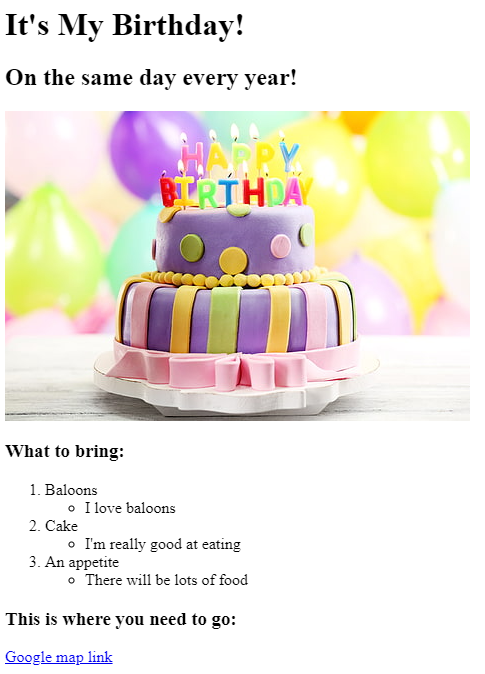
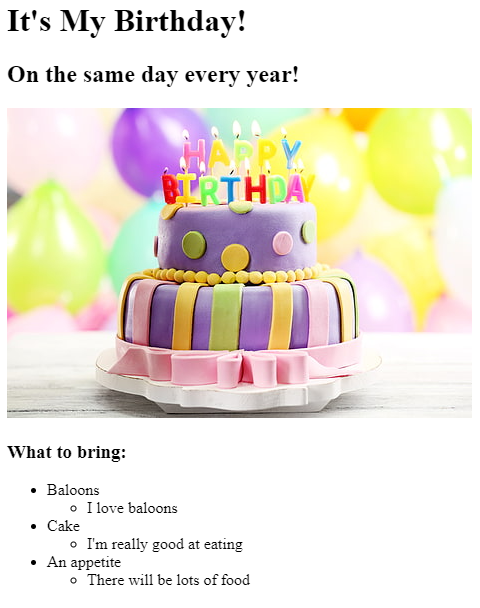
Add files via upload

diff --git a/public/birthday-invite.html b/public/birthday-invite.html
@@ -5,34 +5,34 @@
    <title>Birthday Invite Project</title>
 </head>
 <body>
-<h1>It's My Birthday!</h1>
+    <h1>It's My Birthday!</h1>
 
-<h2>On the same day every year!</h2>
-
-<img src="https://raw.githubusercontent.com/appbrewery/webdev/main/birthday-cake3.4.jpeg" alt="colorful birthday cake"/>
-
-<h3>What to bring:</h3>
-
-<ol>
-    <li>Baloons
-        <ul>
-            <li>I love baloons</li>
-        </ul>
-    </li>
-    <li>Cake
-        <ul>
-            <li>I'm really good at eating</li>
-        </ul>
-    </li>
-    <li>An appetite
-        <ul>
-            <li>There will be lots of food</li>
-        </ul>
-    </li>
-</ol>
-
-<h3>This is where you need to go:</h3>
-
-<a href="https://www.google.com/maps/@35.7040744,139.5577317,3a,75y,289.6h,87.01t,0.72r/data=!3m6!1e1!3m4!1sgT28ssf0BB2LxZ63JNcL1w!2e0!7i13312!8i6656">Google map link</a>
+    <h2>On the same day every year!</h2>
+    
+    <img src="https://raw.githubusercontent.com/appbrewery/webdev/main/birthday-cake3.4.jpeg" alt="colorful birthday cake"/>
+    
+    <h3>What to bring:</h3>
+    
+    <ul>
+        <li>Baloons
+            <ul>
+                <li>I love baloons</li>
+            </ul>
+        </li>
+        <li>Cake
+            <ul>
+                <li>I'm really good at eating</li>
+            </ul>
+        </li>
+        <li>An appetite
+            <ul>
+                <li>There will be lots of food</li>
+            </ul>
+        </li>
+    </ul>
+    
+    <h3>Directions:</h3>
+    
+    <a href="https://www.google.com/maps/@35.7040744,139.5577317,3a,75y,289.6h,87.01t,0.72r/data=!3m6!1e1!3m4!1sgT28ssf0BB2LxZ63JNcL1w!2e0!7i13312!8i6656">Google map link</a>
 </body>
 </html>

diff --git a/public/movie-ranking.html b/public/movie-ranking.html
@@ -5,17 +5,18 @@
    <title>Movie Ranking Project</title>
 </head>
 <body>
-<h1>Best Movies EVER!</h1>
-<h2>According to Me</h2>
-<hr />
-
-<h3>Ford vs Ferrari</h3>
-<p>One of the most historical racing rivalries of all time.</p>
-
-<h3>Rush</h3>
-<p>Story of one of the most successful Formula 1 drivers of the 1970's and 1980's</p>
-
-<h3>Finding Nemo</h3>
-<p>Just keep swimming, just keep swimming, just keep...</p>
+   <h1>The Best Movies According to Eric</h1>
+   <h2>My top 3 favorite movies.</h2>
+   
+   <hr />
+   
+    <h3>Ford vs Ferarri</h3>
+    <p>The story of Caroll Shelby's efforts to build a car for Ford to compete against and beat Ferarri at the 1966 24 Hours of Le Mans race in France.</p>
+   
+    <h3>Rush</h3>
+    <p>True story of famed Formula 1 driver, Niki Lauda, through his career in the 1970's and 1980's.</p>
+   
+    <h3>Chappie</h3>
+    <p>A police robot is reprogrammed with the ability to think and feel, becomes captured and taught how to understand human behavior by gangsters.</p>
 </body>
 </html>

diff --git a/public/about.html b/public/about.html
@@ -6,6 +6,10 @@
 </head>
 <body>
 <h1>About Me</h1>
+<p>Thank you for your interest in me. My Portfolio website was created to showcase my web development capabilities and skill set.
+  The personal details found throughout the website and within my projects are fictional in order to protect my identity. 
+  The remainder of this page is lorem ipsum text.</p>
+
 <p>Lorem ipsum dolor sit amet, consectetur adipiscing elit. Pellentesque sem tellus, sagittis non odio nec, interdum
   elementum lacus. Ut ac justo eget risus sollicitudin fringilla sed ut leo. Ut condimentum elit nec fermentum lobortis.
   Quisque tincidunt quam nec tincidunt ullamcorper. Integer vitae pretium justo. In placerat volutpat pellentesque.

diff --git a/index.html b/index.html
@@ -6,7 +6,7 @@
  </head>
  <body>
     <h1> My Portfolio</h1>
-    <h2> I'm learning Web Development</h2>
+    <h2> I'm a Web Development</h2>
 
     <hr/>
 
